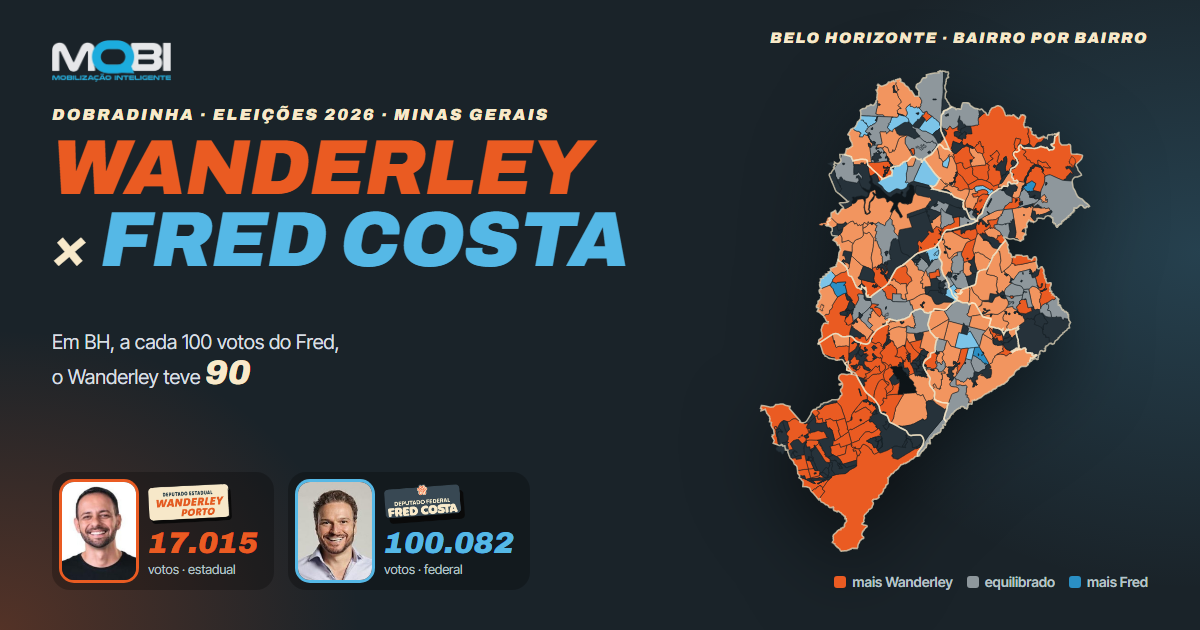
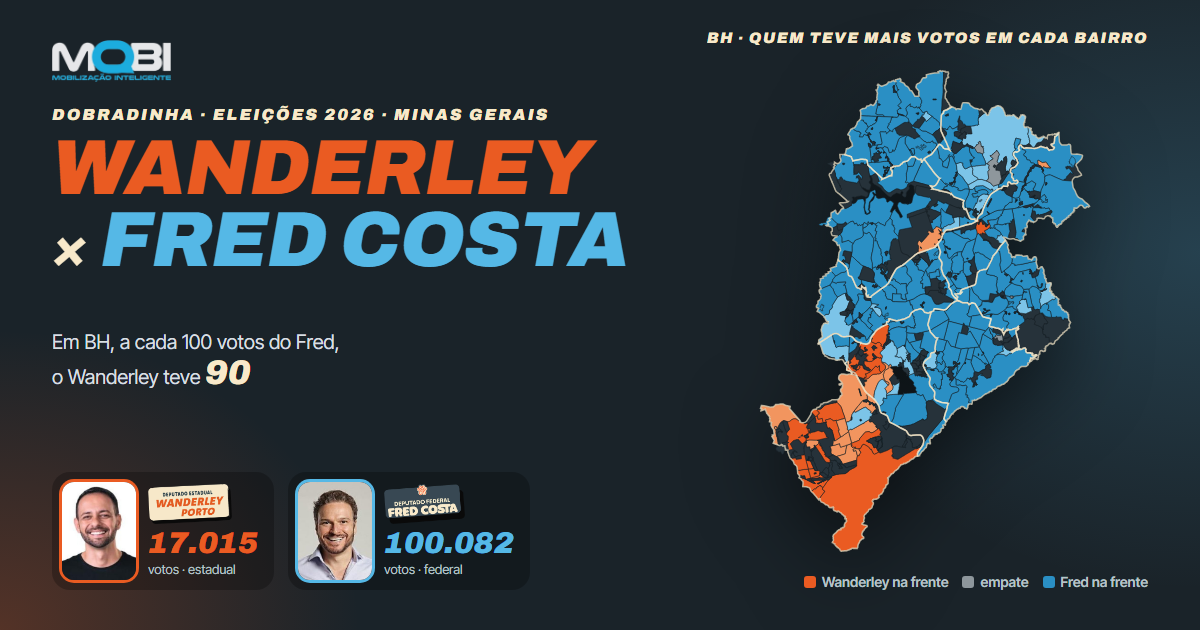
Mapas: 'quem teve mais votos' como padrão no Wanderley × Fred, mapa primeiro e contornos das regiões
- /wanderley-fred: azul onde o Fred teve mais votos, laranja onde o Wanderley teve; visão antiga vira 'Peso no total de cada um'; mapa logo depois dos números; nova imagem de compartilhamento
- /presidente e /wanderley-fred: contorno de cada região desenhado por cima nos recortes regionais

Changed region(s): [[0.6167, 0.1206, 0.925, 0.754], [0.5858, 0.0302, 0.8942, 0.0905], [0.6475, 0.9048, 0.9558, 0.9349]]

diff --git a/wanderley-fred/app.js b/wanderley-fred/app.js
@@ -27,6 +27,7 @@ function derivar(o) {
   o.ws = o.w / TW; o.fs = o.f / TF;
   o.rel = (o.w + o.f) ? Math.log2((o.ws + 1e-5) / (o.fs + 1e-5)) : null;
   o.razao = o.f ? o.w / o.f * 100 : null;
+  o.mais = (o.w + o.f) ? Math.log2((o.w + 1) / (o.f + 1)) : null;   // >0: Wanderley teve mais votos que o Fred no lugar
   o.f22p = o.v6_22 ? o.f22 / o.v6_22 : null; o.dF = o.fp != null && o.f22p != null ? o.fp - o.f22p : null; o.dFv = o.f - o.f22;
   o.wprd = o.p7 ? o.w / o.p7 : null; o.fprd = o.p6 ? o.f / o.p6 : null;
   return o;
@@ -46,7 +47,7 @@ const nivelMG = n => CACHE[n] || (CACHE[n] = agrupar(ESC, NIV[n][2], NIV[n][3], 
 /* ---------------- cores e modos */
 const mistura = (c, t) => { const a = parseInt(c.slice(1), 16), b = 0x1a2329; const r = s => Math.round(((b >> s) & 255) * (1 - t) + ((a >> s) & 255) * t); return `rgb(${r(16)},${r(8)},${r(0)})`; };
 const rampa = c => [.2, .38, .58, .8, 1].map(t => mistura(c, t));
-const MODOS = [["rel", "Quem é mais forte aqui"], ["wp", "Wanderley %"], ["fp", "Fred %"], ["w", "Wanderley votos"], ["f", "Fred votos"], ["razao", "Wanderley a cada 100 do Fred"], ["dF", "Fred 2022 → 2026"]];
+const MODOS = [["mais", "Quem teve mais votos"], ["rel", "Peso no total de cada um"], ["wp", "Wanderley %"], ["fp", "Fred %"], ["w", "Wanderley votos"], ["f", "Fred votos"], ["razao", "Wanderley a cada 100 do Fred"], ["dF", "Fred 2022 → 2026"]];
 const DIVREL = ["#2a8fc4", "#7cc4e8", "#8e979c", "#f2955f", "#ea5b22"];
 const DIVD = ["#d9534a", "#f09a8f", "#8e979c", "#8fe0b2", "#3fbf7a"];
 function quebras(v) { v = v.filter(x => x != null && isFinite(x)).sort((a, b) => a - b); return [.2, .4, .6, .8].map(q => v[Math.floor(q * (v.length - 1))]); }
@@ -54,12 +55,14 @@ function cor(u, modo, q) {
   if (!u || !(u.w + u.f + u.v7)) return "#26323a";
   const x = u[modo]; if (x == null || !isFinite(x)) return "#26323a";
   if (modo === "rel") return DIVREL[[-1, -.35, .35, 1].filter(t => x > t).length];
+  if (modo === "mais") return DIVREL[[-1, -.14, .14, 1].filter(t => x > t).length];
   if (modo === "dF") return DIVD[[-.01, -.002, .002, .01].filter(t => x > t).length];
   const r = /^w/.test(modo) ? rampa(COR.w) : /^f/.test(modo) ? rampa(COR.f) : rampa(COR.creme);
   return r[q.filter(t => x > t).length];
 }
 const fmt = (modo, x) => modo === "wp" || modo === "fp" ? pct(x, 2) : modo === "dF" ? pp(x, 2) : modo === "razao" ? dec(x, 0) : int(x);
 function legenda(modo, q) {
+  if (modo === "mais") return ["Fred com o dobro ou mais", "Fred teve mais votos", "praticamente empatados", "Wanderley teve mais votos", "Wanderley com o dobro ou mais"].map((t, i) => `<span><b style="background:${DIVREL[i]}"></b>${t}</span>`).join("") + `<span class="nota">(votos do Wanderley para estadual × votos do Fred para federal no mesmo lugar)</span>`;
   if (modo === "rel") return ["Fred bem mais forte", "Fred mais forte", "equilibrado", "Wanderley mais forte", "Wanderley bem mais forte"].map((t, i) => `<span><b style="background:${DIVREL[i]}"></b>${t}</span>`).join("") + `<span class="nota">(comparando o peso de cada lugar no total de cada um)</span>`;
   if (modo === "dF") return ["caiu mais de 1 p.p.", "caiu", "estável", "subiu", "subiu mais de 1 p.p."].map((t, i) => `<span><b style="background:${DIVD[i]}"></b>${t}</span>`).join("");
   const r = /^w/.test(modo) ? rampa(COR.w) : /^f/.test(modo) ? rampa(COR.f) : rampa(COR.creme);
@@ -67,7 +70,7 @@ function legenda(modo, q) {
 }
 const duas = u => `<span class="duas"><i class="bw" style="width:${Math.min(100, (u.wp || 0) / E.maxWp * 100)}%"></i><i class="bf" style="width:${Math.min(100, (u.fp || 0) / E.maxFp * 100)}%"></i></span>`;
 function dica(u, tipo) {
-  return `<b>${esc(u.nome)}</b>${tipo ? ` <small style="color:#8796a0">${tipo}</small>` : ""}<br><span style="color:${COR.w}">■</span> Wanderley: <b>${int(u.w)}</b> votos · ${pct(u.wp, 2)}<br><span style="color:${COR.f}">■</span> Fred: <b>${int(u.f)}</b> votos · ${pct(u.fp, 2)}<br>Wanderley a cada 100 do Fred: <b>${dec(u.razao, 0)}</b>${u.f22 ? `<br>Fred em 2022: ${int(u.f22)} votos (${pp(u.dF, 2)})` : ""}`;
+  return `<b>${esc(u.nome)}</b>${tipo ? ` <small style="color:#8796a0">${tipo}</small>` : ""}<br><span style="color:${COR.w}">■</span> Wanderley: <b>${int(u.w)}</b> votos · ${pct(u.wp, 2)}<br><span style="color:${COR.f}">■</span> Fred: <b>${int(u.f)}</b> votos · ${pct(u.fp, 2)}<br><b>${u.w === u.f ? "Empate" : u.w > u.f ? `<span style="color:${COR.w}">Wanderley</span> teve mais votos` : `<span style="color:${COR.f}">Fred</span> teve mais votos`}</b> · Wanderley a cada 100 do Fred: <b>${dec(u.razao, 0)}</b>${u.f22 ? `<br>Fred em 2022: ${int(u.f22)} votos (${pp(u.dF, 2)})` : ""}`;
 }
 
 /* ---------------- abertura: duelo e destaques */
@@ -145,13 +148,13 @@ function cidade(m, alvo) {
       <div class="kpi"><b>${dec(r, 2)}</b><span>correlação entre os dois nas escolas (−1 a +1)</span></div>
     </div>
     <p class="insight">${osm ? `Regional mais forte: <b class="cw">${esc(regW.nome)}</b> para o Wanderley (${pct(regW.wp, 2)}) e <b class="cf">${esc(regF.nome)}</b> para o Fred (${pct(regF.fp, 2)}). ` : ""}${bairW ? `Bairro mais forte: <b class="cw">${esc(bairW.nome)}</b> (${pct(bairW.wp, 2)}) e <b class="cf">${esc(bairF?.nome)}</b> (${pct(bairF?.fp, 2)}). ` : ""}Escola com mais votos: <b class="cw">${esc(topW.nome)}</b> (${int(topW.w)}) e <b class="cf">${esc(topF.nome)}</b> (${int(topF.f)}). ${Math.abs(r) < .2 ? "Os dois votam em lugares diferentes da cidade: a força de um quase não acompanha a do outro." : r > 0 ? "Onde um é forte, o outro tende a ser forte também: a dobradinha anda junta." : "Onde um é forte, o outro tende a ser mais fraco."}</p>
+    <div class="cab"><h3>Mapa${osm ? " de bairros, regionais e escolas" : " das escolas"}</h3></div>
+    <div class="linha"><span class="rot">Mostrar</span><div class="seg" data-camada="${m}">${(osm ? [["bairro", "Bairros"], ["regional", "Regionais"], ["escola", "Escolas"]] : [["escola", "Escolas"]]).map(([k, n]) => `<button data-v="${k}" aria-pressed="${(E.camada[m] || (osm ? "bairro" : "escola")) === k}">${n}</button>`).join("")}</div></div>
+    <div class="linha"><span class="rot">Pintar por</span><div class="seg" data-modo="${m}">${MODOS.map(([k, n]) => `<button data-v="${k}" aria-pressed="${(E.modo[m] || "mais") === k}">${n}</button>`).join("")}</div></div>
+    <div class="mapa-wrap"><div><div class="mapa" id="mapa-${id}"></div><div class="legenda" id="leg-${id}"></div></div><aside class="card lateral" id="lat-${id}"></aside></div>
     ${osm ? `<div class="cab"><h3>Por regional</h3></div>
     <div class="grid2"><div class="card"><h4>% dos válidos por regional</h4><canvas id="g-reg-${id}" height="300"></canvas></div><div class="card"><h4>De onde vieram os votos <small>parte do total da cidade em cada regional</small></h4><canvas id="g-regs-${id}" height="300"></canvas></div></div>
     <div class="card" style="margin-top:14px">${tabela(regs, "Regional", "reg-" + id)}</div>` : ""}
-    <div class="cab"><h3>Mapa${osm ? " de bairros, regionais e escolas" : " das escolas"}</h3></div>
-    <div class="linha"><span class="rot">Mostrar</span><div class="seg" data-camada="${m}">${(osm ? [["bairro", "Bairros"], ["regional", "Regionais"], ["escola", "Escolas"]] : [["escola", "Escolas"]]).map(([k, n]) => `<button data-v="${k}" aria-pressed="${(E.camada[m] || (osm ? "bairro" : "escola")) === k}">${n}</button>`).join("")}</div></div>
-    <div class="linha"><span class="rot">Pintar por</span><div class="seg" data-modo="${m}">${MODOS.map(([k, n]) => `<button data-v="${k}" aria-pressed="${(E.modo[m] || "rel") === k}">${n}</button>`).join("")}</div></div>
-    <div class="mapa-wrap"><div><div class="mapa" id="mapa-${id}"></div><div class="legenda" id="leg-${id}"></div></div><aside class="card lateral" id="lat-${id}"></aside></div>
     <div class="cab"><h3>Bairros</h3></div>
     <div class="grid2"><div class="card"><h4><span class="cw">Wanderley</span> · bairros com mais votos</h4>${rank(bairros, "w", 15)}</div><div class="card"><h4><span class="cf">Fred</span> · bairros com mais votos</h4>${rank(bairros, "f", 15)}</div></div>
     <div class="card" style="margin-top:14px">${tabela(bairros, "Bairro", "bai-" + id)}</div>
@@ -206,7 +209,7 @@ async function mapaCidade(m) {
   L.tileLayer("https://services.arcgisonline.com/ArcGIS/rest/services/Canvas/World_Dark_Gray_Base/MapServer/tile/{z}/{y}/{x}", {attribution: "Esri · OpenStreetMap · TSE", maxZoom: 17}).addTo(mapa);
   mapa.on("click focus", () => mapa.scrollWheelZoom.enable());
   E.mapas[id] = mapa;
-  const ctx = E.ctx[m], camada = E.camada[m] || (osm ? "bairro" : "escola"), modo = E.modo[m] || "rel";
+  const ctx = E.ctx[m], camada = E.camada[m] || (osm ? "bairro" : "escola"), modo = E.modo[m] || "mais";
   const lista = camada === "regional" ? ctx.regs : camada === "bairro" ? ctx.bairros : ctx.escs, q = quebras(lista.map(u => u[modo]));
   const porNome = new Map(lista.map(u => [u.nome, u])), grupo = L.featureGroup().addTo(mapa);
   if (osm && camada !== "escola") {
@@ -225,6 +228,9 @@ async function mapaCidade(m) {
   $("#leg-" + id).innerHTML = legenda(modo, q);
   const nomeC = {regional: "regionais", bairro: "bairros", escola: "escolas"}[camada], mn = MODOS.find(x => x[0] === modo)[1];
   const ordenada = lista.filter(u => u[modo] != null && isFinite(u[modo])).sort((a, b) => b[modo] - a[modo]);
+  const maisW = lista.filter(u => u.w > u.f).sort((a, b) => (b.w - b.f) - (a.w - a.f)), maisF = lista.filter(u => u.f > u.w).sort((a, b) => (b.f - b.w) - (a.f - a.w));
+  const itemD = u => `<li><button data-pop="${u.tipo}|${esc(u.chave)}|${m}"><span>${esc(u.nome)}</span><b><span class="cw">${int(u.w)}</span> · <span class="cf">${int(u.f)}</span></b></button></li>`;
+  if (modo === "mais") { $("#lat-" + id).innerHTML = `<h4>Quem teve mais votos <small>${nomeC}</small></h4><p class="nota"><b class="cw">${int(maisW.length)}</b> ${nomeC} com mais Wanderley · <b class="cf">${int(maisF.length)}</b> com mais Fred</p><h4 class="cw" style="margin-top:12px">Wanderley na frente</h4><ol class="rank">${maisW.slice(0, 10).map(itemD).join("") || "<li class='nota'>nenhum</li>"}</ol><h4 class="cf" style="margin-top:12px">Fred na frente</h4><ol class="rank">${maisF.slice(0, 10).map(itemD).join("") || "<li class='nota'>nenhum</li>"}</ol>`; return; }
   $("#lat-" + id).innerHTML = modo === "rel"
     ? `<h4>Onde cada um pesa mais <small>${nomeC}</small></h4><p class="nota">Compara o peso de cada lugar no total de votos de cada candidato.</p><h4 class="cw" style="margin-top:12px">Mais Wanderley</h4><ol class="rank">${ordenada.filter(u => u.w + u.f > 20).slice(0, 10).map(u => `<li><button data-pop="${u.tipo}|${esc(u.chave)}|${m}"><span>${esc(u.nome)}</span><b>${int(u.w)} · ${int(u.f)}</b></button></li>`).join("")}</ol><h4 class="cf" style="margin-top:12px">Mais Fred</h4><ol class="rank">${ordenada.filter(u => u.w + u.f > 20).reverse().slice(0, 10).map(u => `<li><button data-pop="${u.tipo}|${esc(u.chave)}|${m}"><span>${esc(u.nome)}</span><b>${int(u.w)} · ${int(u.f)}</b></button></li>`).join("")}</ol>`
     : `<h4>${esc(mn)} <small>${nomeC}</small></h4><h4 style="margin-top:10px">Maiores</h4><ol class="rank">${ordenada.slice(0, 12).map(u => `<li><button data-pop="${u.tipo}|${esc(u.chave)}|${m}"><span>${esc(u.nome)}</span><b>${fmt(modo, u[modo])}</b></button></li>`).join("")}</ol><h4 style="margin-top:12px">Menores</h4><ol class="rank">${ordenada.slice(-8).reverse().map(u => `<li><button data-pop="${u.tipo}|${esc(u.chave)}|${m}"><span>${esc(u.nome)}</span><b>${fmt(modo, u[modo])}</b></button></li>`).join("")}</ol>`;
@@ -243,7 +249,7 @@ function minas() {
     <div class="kpis"><div class="kpi"><b class="cw">${int(fora.w)}</b><span>votos do Wanderley fora de BH (${pct(fora.w / mg.w, 0)})</span></div><div class="kpi"><b class="cf">${int(fora.f)}</b><span>votos do Fred fora de BH (${pct(fora.f / mg.f, 0)})</span></div>
       <div class="kpi"><b>${int(ri.w)} · ${int(ri.f)}</b><span>no resto da região de BH (Wanderley · Fred)</span></div><div class="kpi"><b>${int(nivelMG("mun").filter(c => c.w > 0).length)} · ${int(nivelMG("mun").filter(c => c.f > 0).length)}</b><span>cidades com voto (Wanderley · Fred)</span></div></div>
     <div class="linha"><span class="rot">Ver por</span><div class="seg" id="nivelMG">${Object.entries(NIV).map(([k, v]) => `<button data-n="${k}" aria-pressed="${k === nv}">${v[0]}</button>`).join("")}</div></div>
-    <div class="linha"><span class="rot">Pintar por</span><div class="seg" data-modo="mg">${MODOS.map(([k, n]) => `<button data-v="${k}" aria-pressed="${(E.modo.mg || "rel") === k}">${n}</button>`).join("")}</div></div>
+    <div class="linha"><span class="rot">Pintar por</span><div class="seg" data-modo="mg">${MODOS.map(([k, n]) => `<button data-v="${k}" aria-pressed="${(E.modo.mg || "mais") === k}">${n}</button>`).join("")}</div></div>
     <div class="mapa-wrap"><div><div class="mapa" id="mapa-mg"></div><div class="legenda" id="leg-mg"></div></div><aside class="card lateral" id="lat-mg"></aside></div>
     <div class="grid2" style="margin-top:14px"><div class="card"><h4>As 20 cidades com mais votos dos dois</h4><canvas id="g-topcid" height="420"></canvas></div><div class="card"><h4>Macrorregiões: % dos válidos</h4><canvas id="g-macro" height="420"></canvas></div></div>
     <div class="card" style="margin-top:14px">${tabela(l, NIV[nv][1], "mg-" + nv)}</div>`;
@@ -262,12 +268,13 @@ async function mapaMG() {
   const mapa = L.map(el, {scrollWheelZoom: false, preferCanvas: true, zoomSnap: .25}); E.mapas.mg = mapa;
   L.tileLayer("https://services.arcgisonline.com/ArcGIS/rest/services/Canvas/World_Dark_Gray_Base/MapServer/tile/{z}/{y}/{x}", {attribution: "Esri · IBGE · TSE", maxZoom: 14}).addTo(mapa);
   mapa.on("click focus", () => mapa.scrollWheelZoom.enable());
-  const nv = E.nivelMG, modo = E.modo.mg || "rel", l = nivelMG(nv), nvMapa = nv === "zona" ? "mun" : nv, lm = nivelMG(nvMapa);
+  const nv = E.nivelMG, modo = E.modo.mg || "mais", l = nivelMG(nv), nvMapa = nv === "zona" ? "mun" : nv, lm = nivelMG(nvMapa);
   const unidadeDe = new Map(); for (const u of lm) for (const e of u.escolas) unidadeDe.set(e.mun, u);
   const ibgeMun = new Map(Object.entries(E.B.municipios).map(([m, x]) => [x.ibge, m])), q = quebras(lm.map(u => u[modo]));
   const grupo = L.featureGroup().addTo(mapa);
   L.geoJSON(E.geo, {style: f => { const u = unidadeDe.get(ibgeMun.get(f.properties.ibge)); return {color: nvMapa === "mun" ? "#141c21" : "rgba(20,28,33,.4)", weight: nvMapa === "mun" ? .4 : .2, fillOpacity: nv === "zona" ? .25 : .9, fillColor: cor(u, modo, q)}; },
     onEachFeature: (f, ly) => { const u = unidadeDe.get(ibgeMun.get(f.properties.ibge)); if (!u) return; ly.bindTooltip(dica(u, NIV[nvMapa][1].toLowerCase()), {sticky: true}); ly.on("click", ev => popover(u, ev.originalEvent)); }}).addTo(grupo);
+  if (nvMapa !== "mun") L.polyline(bordasRegiao(nvMapa, ib => NIV[nvMapa][2]({mun: ibgeMun.get(ib)})), {color: "#f8e9ca", weight: 1.4, opacity: .85, interactive: false}).addTo(grupo);
   if (nv === "zona") {
     const qz = quebras(l.map(u => u[modo])), mx = Math.max(...l.map(u => u.el));
     for (const u of l) { const c = u.escolas.filter(e => e.lat != null); if (!c.length) continue; const t = c.reduce((a, e) => a + e.el, 0), lat = c.reduce((a, e) => a + e.lat * e.el, 0) / t, lng = c.reduce((a, e) => a + e.lng * e.el, 0) / t;
@@ -277,10 +284,28 @@ async function mapaMG() {
   $("#leg-mg").innerHTML = legenda(modo, nv === "zona" ? quebras(l.map(u => u[modo])) : q);
   const ord = l.filter(u => u[modo] != null && isFinite(u[modo]) && u.w + u.f > 30).sort((a, b) => b[modo] - a[modo]), mn = MODOS.find(x => x[0] === modo)[1];
   const item = u => `<li><button data-pop="${u.tipo}|${esc(u.chave)}|"><span>${esc(u.nome)}</span><b>${modo === "rel" ? int(u.w) + " · " + int(u.f) : fmt(modo, u[modo])}</b></button></li>`;
+  if (modo === "mais") { const mw = l.filter(u => u.w > u.f).sort((a, b) => (b.w - b.f) - (a.w - a.f)), mf = l.filter(u => u.f > u.w).sort((a, b) => (b.f - b.w) - (a.f - a.w)), it = u => `<li><button data-pop="${u.tipo}|${esc(u.chave)}|"><span>${esc(u.nome)}</span><b><span class="cw">${int(u.w)}</span> · <span class="cf">${int(u.f)}</span></b></button></li>`;
+    $("#lat-mg").innerHTML = `<h4>Quem teve mais votos <small>${NIV[nv][0].toLowerCase()}</small></h4><p class="nota"><b class="cw">${int(mw.length)}</b> com mais Wanderley · <b class="cf">${int(mf.length)}</b> com mais Fred</p><h4 class="cw" style="margin-top:12px">Wanderley na frente</h4><ol class="rank">${mw.slice(0, 12).map(it).join("") || "<li class='nota'>nenhum</li>"}</ol><h4 class="cf" style="margin-top:12px">Fred na frente</h4><ol class="rank">${mf.slice(0, 12).map(it).join("")}</ol>`; return; }
   $("#lat-mg").innerHTML = modo === "rel" ? `<h4>Onde cada um pesa mais <small>${NIV[nv][0].toLowerCase()} com 30+ votos</small></h4><h4 class="cw" style="margin-top:10px">Mais Wanderley</h4><ol class="rank">${ord.slice(0, 12).map(item).join("")}</ol><h4 class="cf" style="margin-top:12px">Mais Fred</h4><ol class="rank">${ord.slice().reverse().slice(0, 12).map(item).join("")}</ol>`
     : `<h4>${esc(mn)} <small>${NIV[nv][0].toLowerCase()}</small></h4><ol class="rank">${ord.slice(0, 25).map(item).join("")}</ol>`;
 }
 
+
+// contornos das regiões: trechos de divisa entre cidades de regiões diferentes (e a divisa do estado)
+const BORDAS = {};
+function bordasRegiao(nivel, chaveDoIbge) {
+  if (BORDAS[nivel]) return BORDAS[nivel];
+  const cont = new Map();
+  for (const f of E.geo.features) {
+    const r = chaveDoIbge(f.properties.ibge), polys = f.geometry.type === "Polygon" ? [f.geometry.coordinates] : f.geometry.coordinates;
+    for (const p of polys) for (const anel of p) for (let i = 0; i < anel.length - 1; i++) {
+      const a = anel[i], b = anel[i + 1], k = (a[0] < b[0] || (a[0] === b[0] && a[1] < b[1])) ? a + "|" + b : b + "|" + a, e = cont.get(k);
+      if (e) { e.n++; if (e.r !== r) e.dif = true; } else cont.set(k, {r, n: 1, a, b});
+    }
+  }
+  const seg = []; for (const e of cont.values()) if (e.dif || e.n === 1) seg.push([[e.a[1], e.a[0]], [e.b[1], e.b[0]]]);
+  return BORDAS[nivel] = seg;
+}
 /* ---------------- escolas de todo o estado */
 function escolas() {
   const todas = ESC.map(e => Object.assign(derivar({...e, n: 1}), {nome: `${e.nome}`, tipo: "escola", chave: e.id, escolas: [e]})).filter(u => u.w + u.f > 0);

diff --git a/presidente/app.js b/presidente/app.js
@@ -399,6 +399,22 @@ $("#csv").addEventListener("click", () => {
   Object.assign(document.createElement("a"), {href: URL.createObjectURL(new Blob(["" + linhas.join("\n")], {type: "text/csv"})), download: `presidente-mg-${E.nivel}.csv`}).click();
 });
 
+
+// contornos das regiões: trechos de divisa entre cidades de regiões diferentes (e a divisa do estado)
+const BORDAS = {};
+function bordasRegiao(nivel, chaveDoIbge) {
+  if (BORDAS[nivel]) return BORDAS[nivel];
+  const cont = new Map();
+  for (const f of E.geo.features) {
+    const r = chaveDoIbge(f.properties.ibge), polys = f.geometry.type === "Polygon" ? [f.geometry.coordinates] : f.geometry.coordinates;
+    for (const p of polys) for (const anel of p) for (let i = 0; i < anel.length - 1; i++) {
+      const a = anel[i], b = anel[i + 1], k = (a[0] < b[0] || (a[0] === b[0] && a[1] < b[1])) ? a + "|" + b : b + "|" + a, e = cont.get(k);
+      if (e) { e.n++; if (e.r !== r) e.dif = true; } else cont.set(k, {r, n: 1, a, b});
+    }
+  }
+  const seg = []; for (const e of cont.values()) if (e.dif || e.n === 1) seg.push([[e.a[1], e.a[0]], [e.b[1], e.b[0]]]);
+  return BORDAS[nivel] = seg;
+}
 /* ---------------- mapa grande */
 function novoMapa(id) {
   const m = L.map(id, {scrollWheelZoom: false, zoomSnap: .25, preferCanvas: true});
@@ -479,6 +495,7 @@ function desenharMapa() {
       l.bindTooltip(foco ? `<b>${esc(u.nome)}</b><br><small>${vaiFocar ? "toque para ir até lá" : "toque para ver detalhes"}</small>` : dica(u) + (vaiFocar ? "<br><small style='color:#55b8e6'>toque para dar zoom</small>" : ""), {sticky: true});
       l.on("click", ev => vaiFocar ? focar(u.nivel, u.chave) : popover("mun", u.chave, ev));
     }}).addTo(grupo);
+  if (regiao && !foco) L.polyline(bordasRegiao(E.nivel, ib => E.B.municipios[E.munDe.get(ib)]?.[E.nivel]), {color: "#e9eef2", weight: 1.3, opacity: .8, interactive: false}).addTo(grupo);
   let listaRank = foco ? [...dentro.values()] : lista;
   if (E.nivel === "zona" && !foco) {
     listaRank = E.unidades;
